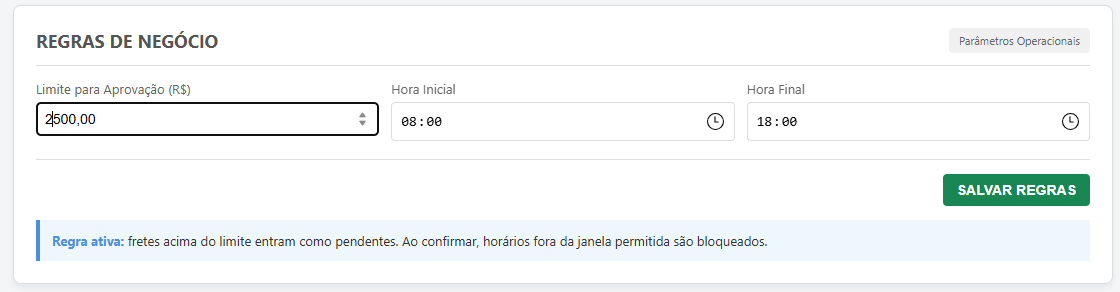
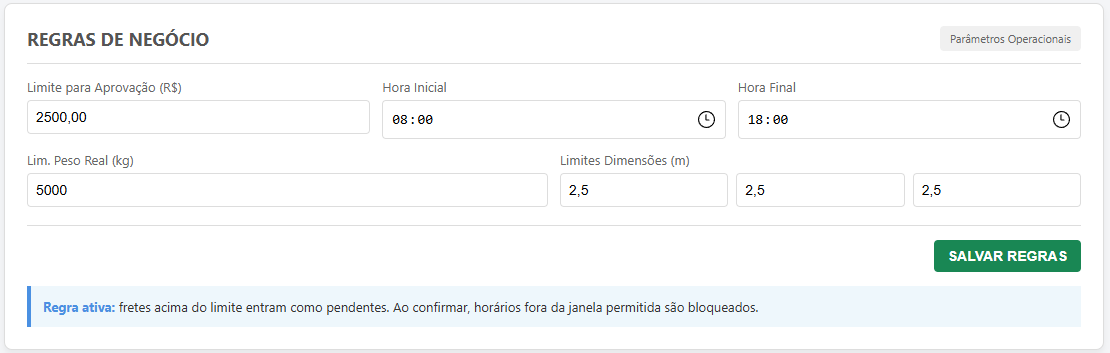
Ajustes de limites

diff --git a/js/app.js b/js/app.js
@@ -76,6 +76,11 @@ function validarDados(dados) {
   if (!camposValidos) return { valido: false, erro: 'Preencha todos os campos obrigatórios antes de calcular.' };
   if (!valoresPositivos) return { valido: false, erro: 'Os campos de medidas, peso e tarifas não podem ser negativos.' };
   
+  if (dados.pesoReal > regrasNegocio.maxPesoReal) return { valido: false, erro: `Peso Real excede o limite permitido de ${regrasNegocio.maxPesoReal} kg.` };
+  if (dados.comprimento > regrasNegocio.maxComprimento) return { valido: false, erro: `Comprimento excede o limite permitido de ${regrasNegocio.maxComprimento} m.` };
+  if (dados.largura > regrasNegocio.maxLargura) return { valido: false, erro: `Largura excede o limite permitido de ${regrasNegocio.maxLargura} m.` };
+  if (dados.altura > regrasNegocio.maxAltura) return { valido: false, erro: `Altura excede o limite permitido de ${regrasNegocio.maxAltura} m.` };
+
   return { valido: true };
 }
 
@@ -342,6 +347,10 @@ function preencherFormularioRegras() {
   el('regraLimiteAprovacao').value = Number(regrasNegocio.limiteAprovacao).toFixed(2);
   el('regraHoraInicial').value = regrasNegocio.horaInicial;
   el('regraHoraFinal').value = regrasNegocio.horaFinal;
+  el('regraMaxPesoReal').value = regrasNegocio.maxPesoReal;
+  el('regraMaxComprimento').value = regrasNegocio.maxComprimento;
+  el('regraMaxLargura').value = regrasNegocio.maxLargura;
+  el('regraMaxAltura').value = regrasNegocio.maxAltura;
 }
 
 function atualizarPainel() {
@@ -515,13 +524,22 @@ el('btnSalvarRegras').addEventListener('click', () => {
   const limiteAprovacao = parseFloat(el('regraLimiteAprovacao').value);
   const horaInicial = el('regraHoraInicial').value;
   const horaFinal = el('regraHoraFinal').value;
+  const maxPesoReal = parseFloat(el('regraMaxPesoReal').value);
+  const maxComprimento = parseFloat(el('regraMaxComprimento').value);
+  const maxLargura = parseFloat(el('regraMaxLargura').value);
+  const maxAltura = parseFloat(el('regraMaxAltura').value);
 
   if (Number.isNaN(limiteAprovacao) || !horaInicial || !horaFinal || horaInicial >= horaFinal) {
     alert('Informe limite, hora inicial e hora final válidos.');
     return;
   }
+  
+  if (Number.isNaN(maxPesoReal) || Number.isNaN(maxComprimento) || Number.isNaN(maxLargura) || Number.isNaN(maxAltura)) {
+    alert('Informe limites de peso e dimensões válidos.');
+    return;
+  }
 
-  regrasNegocio = { limiteAprovacao, horaInicial, horaFinal };
+  regrasNegocio = { limiteAprovacao, horaInicial, horaFinal, maxPesoReal, maxComprimento, maxLargura, maxAltura };
   salvarRegras(regrasNegocio);
   alert('Regras salvas com sucesso.');
 });

diff --git a/index.html b/index.html
@@ -356,6 +356,20 @@
           <input id="regraHoraFinal" type="time" value="18:00" required>
         </div>
       </div>
+      <div class="form-row compact-row">
+        <div class="form-group">
+          <label for="regraMaxPesoReal">Lim. Peso Real (kg)</label>
+          <input id="regraMaxPesoReal" type="number" step="0.01" min="0" value="5000" required>
+        </div>
+        <div class="form-group">
+          <label>Limites Dimensões (m)</label>
+          <div class="dimensoes-group">
+            <input id="regraMaxComprimento" type="number" step="0.01" min="0" placeholder="Compr." value="2.5" required title="Comprimento">
+            <input id="regraMaxLargura" type="number" step="0.01" min="0" placeholder="Larg." value="2.5" required title="Largura">
+            <input id="regraMaxAltura" type="number" step="0.01" min="0" placeholder="Alt." value="2.5" required title="Altura">
+          </div>
+        </div>
+      </div>
     </form>
 
     <div class="btn-container">

diff --git a/js/storage.js b/js/storage.js
@@ -135,7 +135,11 @@ function carregarRegras() {
   const regrasPadrao = {
     limiteAprovacao: 2500,
     horaInicial: '08:00',
-    horaFinal: '18:00'
+    horaFinal: '18:00',
+    maxPesoReal: 5000,
+    maxComprimento: 2.5,
+    maxLargura: 2.5,
+    maxAltura: 2.5
   };
 
   if (!dados) {
